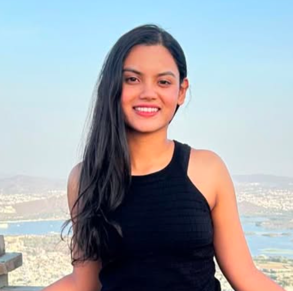
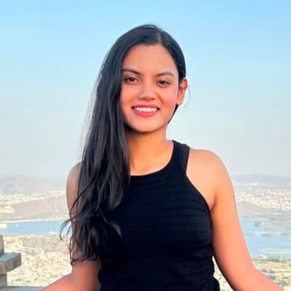
update

diff --git a/app/layout.tsx b/app/layout.tsx
@@ -20,13 +20,13 @@ import { ToastContainer } from "react-toastify";
 //   openGraph: {
 //     title: seo.title,
 //     description: seo.description,
-//     images: "/images/img.png",
+//     images: "/images/profile-pic.png",
 //     url: seo.url
 //   },
 //   twitter: {
 //     title: seo.title,
 //     description: seo.description,
-//     images: "/images/img.png",
+//     images: "/images/profile-pic.png",
 //     site: seo.url
 //   }
 // };
@@ -54,7 +54,7 @@ export default function RootLayout({ children }: Readonly<LayoutType>) {
       <meta property="og:type" content="website" />
       <meta property="og:title" content={seo.title} />
       <meta property="og:description" content={seo.description} />
-      <meta property="og:image" content="/images/img.png" />
+      <meta property="og:image" content="/images/profile-pic.png" />
 
 
       <meta name="twitter:card" content="summary_large_image" />
@@ -62,7 +62,7 @@ export default function RootLayout({ children }: Readonly<LayoutType>) {
       <meta property="twitter:url" content="https://iamsonalgupta.com/" />
       <meta name="twitter:title" content={seo.title} />
       <meta name="twitter:description" content={seo.description} />
-      <meta name="twitter:image" content="/images/img.png" />
+      <meta name="twitter:image" content="/images/profile-pic.png" />
     </head>
     <body className={poppins.className}>
     <Bootstrap>

diff --git a/components/Hero.tsx b/components/Hero.tsx
@@ -1,6 +1,6 @@
 import Image from "next/image";
 import React from "react";
-import HeroImg from "@/public/images/img.png";
+import HeroImg from "@/public/images/profile-pic.png";
 import Typewriter from "typewriter-effect";
 import Link from "next/link";
 import { useGSAP } from "@gsap/react";
